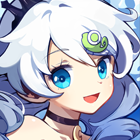
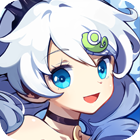
添加图标背景动画，修改图标圆角度等

diff --git a/miHaYo Launcher/MainWindow.xaml b/miHaYo Launcher/MainWindow.xaml
@@ -1,4 +1,4 @@
-<Window x:Class="miHaYo_Launcher.MainWindow"
+<Window x:Name="window" x:Class="miHaYo_Launcher.MainWindow"
         xmlns="http://schemas.microsoft.com/winfx/2006/xaml/presentation"
         xmlns:x="http://schemas.microsoft.com/winfx/2006/xaml"
         xmlns:d="http://schemas.microsoft.com/expression/blend/2008"
@@ -8,18 +8,18 @@
         WindowStartupLocation="CenterScreen"
         Title="miHaYo Launcher" Height="730" Width="1280">
     <Window.Resources>
-        <Storyboard x:Key="icon">
+        <Storyboard x:Key="Stratup">
             <ThicknessAnimationUsingKeyFrames Storyboard.TargetName="mi" Storyboard.TargetProperty="(FrameworkElement.Margin)">
                 <EasingThicknessKeyFrame KeyTime="00:00:00.8000000" Value="-114,-35,0,0"/>
-                <EasingThicknessKeyFrame KeyTime="00:00:01.9000000" Value="-114,-35,0,-633">
+                <EasingThicknessKeyFrame KeyTime="00:00:01.9000000" Value="-114,-35,0,-639">
                     <EasingThicknessKeyFrame.EasingFunction>
-                        <PowerEase EasingMode="EaseInOut" Power="2"/>
+                        <PowerEase EasingMode="EaseInOut"/>
                     </EasingThicknessKeyFrame.EasingFunction>
                 </EasingThicknessKeyFrame>
             </ThicknessAnimationUsingKeyFrames>
             <ThicknessAnimationUsingKeyFrames Storyboard.TargetName="ha" Storyboard.TargetProperty="(FrameworkElement.Margin)">
                 <EasingThicknessKeyFrame KeyTime="00:00:00.8000000" Value="0,-35,0,0"/>
-                <EasingThicknessKeyFrame KeyTime="00:00:01.9000000" Value="0,-35,0,-633">
+                <EasingThicknessKeyFrame KeyTime="00:00:01.9000000" Value="0,-35,0,-639">
                     <EasingThicknessKeyFrame.EasingFunction>
                         <PowerEase EasingMode="EaseInOut"/>
                     </EasingThicknessKeyFrame.EasingFunction>
@@ -27,7 +27,7 @@
             </ThicknessAnimationUsingKeyFrames>
             <ThicknessAnimationUsingKeyFrames Storyboard.TargetName="yo" Storyboard.TargetProperty="(FrameworkElement.Margin)">
                 <EasingThicknessKeyFrame KeyTime="00:00:00.8000000" Value="100,-35,0,0"/>
-                <EasingThicknessKeyFrame KeyTime="00:00:01.9000000" Value="100,-35,0,-633">
+                <EasingThicknessKeyFrame KeyTime="00:00:01.9000000" Value="100,-35,0,-639">
                     <EasingThicknessKeyFrame.EasingFunction>
                         <PowerEase EasingMode="EaseInOut"/>
                     </EasingThicknessKeyFrame.EasingFunction>
@@ -35,7 +35,7 @@
             </ThicknessAnimationUsingKeyFrames>
             <ThicknessAnimationUsingKeyFrames Storyboard.TargetName="tech" Storyboard.TargetProperty="(FrameworkElement.Margin)">
                 <EasingThicknessKeyFrame KeyTime="00:00:00.8000000" Value="-134,25,0,0"/>
-                <EasingThicknessKeyFrame KeyTime="00:00:01.9000000" Value="-134,25,0,-633">
+                <EasingThicknessKeyFrame KeyTime="00:00:01.9000000" Value="-134,25,0,-639">
                     <EasingThicknessKeyFrame.EasingFunction>
                         <PowerEase EasingMode="EaseInOut"/>
                     </EasingThicknessKeyFrame.EasingFunction>
@@ -43,7 +43,7 @@
             </ThicknessAnimationUsingKeyFrames>
             <ThicknessAnimationUsingKeyFrames Storyboard.TargetName="otakus" Storyboard.TargetProperty="(FrameworkElement.Margin)">
                 <EasingThicknessKeyFrame KeyTime="00:00:00.8000000" Value="-65,25,0,0"/>
-                <EasingThicknessKeyFrame KeyTime="00:00:01.9000000" Value="-65,25,0,-633">
+                <EasingThicknessKeyFrame KeyTime="00:00:01.9000000" Value="-65,25,0,-639">
                     <EasingThicknessKeyFrame.EasingFunction>
                         <PowerEase EasingMode="EaseInOut"/>
                     </EasingThicknessKeyFrame.EasingFunction>
@@ -51,7 +51,7 @@
             </ThicknessAnimationUsingKeyFrames>
             <ThicknessAnimationUsingKeyFrames Storyboard.TargetName="save" Storyboard.TargetProperty="(FrameworkElement.Margin)">
                 <EasingThicknessKeyFrame KeyTime="00:00:00.8000000" Value="2,25,0,0"/>
-                <EasingThicknessKeyFrame KeyTime="00:00:01.9000000" Value="2,25,0,-633">
+                <EasingThicknessKeyFrame KeyTime="00:00:01.9000000" Value="2,25,0,-639">
                     <EasingThicknessKeyFrame.EasingFunction>
                         <PowerEase EasingMode="EaseInOut"/>
                     </EasingThicknessKeyFrame.EasingFunction>
@@ -59,7 +59,7 @@
             </ThicknessAnimationUsingKeyFrames>
             <ThicknessAnimationUsingKeyFrames Storyboard.TargetName="the" Storyboard.TargetProperty="(FrameworkElement.Margin)">
                 <EasingThicknessKeyFrame KeyTime="00:00:00.8000000" Value="47,25,0,0"/>
-                <EasingThicknessKeyFrame KeyTime="00:00:01.9000000" Value="47,25,0,-633">
+                <EasingThicknessKeyFrame KeyTime="00:00:01.9000000" Value="47,25,0,-639">
                     <EasingThicknessKeyFrame.EasingFunction>
                         <PowerEase EasingMode="EaseInOut"/>
                     </EasingThicknessKeyFrame.EasingFunction>
@@ -67,14 +67,13 @@
             </ThicknessAnimationUsingKeyFrames>
             <ThicknessAnimationUsingKeyFrames Storyboard.TargetName="world" Storyboard.TargetProperty="(FrameworkElement.Margin)">
                 <EasingThicknessKeyFrame KeyTime="00:00:00.8000000" Value="105,25,0,0"/>
-                <EasingThicknessKeyFrame KeyTime="00:00:01.9000000" Value="105,25,0,-633">
+                <EasingThicknessKeyFrame KeyTime="00:00:01.9000000" Value="105,25,0,-639">
                     <EasingThicknessKeyFrame.EasingFunction>
                         <PowerEase EasingMode="EaseInOut"/>
                     </EasingThicknessKeyFrame.EasingFunction>
                 </EasingThicknessKeyFrame>
             </ThicknessAnimationUsingKeyFrames>
             <ThicknessAnimationUsingKeyFrames Storyboard.TargetName="jq0" Storyboard.TargetProperty="(FrameworkElement.Margin)">
-                <EasingThicknessKeyFrame KeyTime="00:00:00" Value="370,0,830,0"/>
                 <EasingThicknessKeyFrame KeyTime="00:00:01.2000000" Value="370,0,830,0"/>
                 <EasingThicknessKeyFrame KeyTime="00:00:02.1000000" Value="370,616,830,0">
                     <EasingThicknessKeyFrame.EasingFunction>
@@ -83,17 +82,14 @@
                 </EasingThicknessKeyFrame>
             </ThicknessAnimationUsingKeyFrames>
             <DoubleAnimationUsingKeyFrames Storyboard.TargetName="jq0" Storyboard.TargetProperty="(UIElement.Opacity)">
-                <EasingDoubleKeyFrame KeyTime="00:00:00" Value="0"/>
                 <EasingDoubleKeyFrame KeyTime="00:00:01.2000000" Value="0"/>
                 <EasingDoubleKeyFrame KeyTime="00:00:02.1000000" Value="1"/>
             </DoubleAnimationUsingKeyFrames>
             <DoubleAnimationUsingKeyFrames Storyboard.TargetName="sr" Storyboard.TargetProperty="(UIElement.Opacity)">
-                <EasingDoubleKeyFrame KeyTime="00:00:00" Value="0"/>
                 <EasingDoubleKeyFrame KeyTime="00:00:01.2000000" Value="0"/>
                 <EasingDoubleKeyFrame KeyTime="00:00:02.1000000" Value="1"/>
             </DoubleAnimationUsingKeyFrames>
             <ThicknessAnimationUsingKeyFrames Storyboard.TargetName="sr" Storyboard.TargetProperty="(FrameworkElement.Margin)">
-                <EasingThicknessKeyFrame KeyTime="00:00:00" Value="829,0,371,0"/>
                 <EasingThicknessKeyFrame KeyTime="00:00:01.2000000" Value="829,0,371,0"/>
                 <EasingThicknessKeyFrame KeyTime="00:00:02.1000000" Value="829,616,371,0">
                     <EasingThicknessKeyFrame.EasingFunction>
@@ -102,12 +98,10 @@
                 </EasingThicknessKeyFrame>
             </ThicknessAnimationUsingKeyFrames>
             <DoubleAnimationUsingKeyFrames Storyboard.TargetName="b3" Storyboard.TargetProperty="(UIElement.Opacity)">
-                <EasingDoubleKeyFrame KeyTime="00:00:00" Value="0"/>
                 <EasingDoubleKeyFrame KeyTime="00:00:01.4000000" Value="0"/>
                 <EasingDoubleKeyFrame KeyTime="00:00:02.2000000" Value="1"/>
             </DoubleAnimationUsingKeyFrames>
             <ThicknessAnimationUsingKeyFrames Storyboard.TargetName="b3" Storyboard.TargetProperty="(FrameworkElement.Margin)">
-                <EasingThicknessKeyFrame KeyTime="00:00:00" Value="220,0,980,0"/>
                 <EasingThicknessKeyFrame KeyTime="00:00:01.4000000" Value="220,0,980,0"/>
                 <EasingThicknessKeyFrame KeyTime="00:00:02.2000000" Value="220,616,980,0">
                     <EasingThicknessKeyFrame.EasingFunction>
@@ -116,12 +110,10 @@
                 </EasingThicknessKeyFrame>
             </ThicknessAnimationUsingKeyFrames>
             <DoubleAnimationUsingKeyFrames Storyboard.TargetName="wd" Storyboard.TargetProperty="(UIElement.Opacity)">
-                <EasingDoubleKeyFrame KeyTime="00:00:00" Value="0"/>
                 <EasingDoubleKeyFrame KeyTime="00:00:01.4000000" Value="0"/>
                 <EasingDoubleKeyFrame KeyTime="00:00:02.2000000" Value="1"/>
             </DoubleAnimationUsingKeyFrames>
             <ThicknessAnimationUsingKeyFrames Storyboard.TargetName="wd" Storyboard.TargetProperty="(FrameworkElement.Margin)">
-                <EasingThicknessKeyFrame KeyTime="00:00:00" Value="979,0,222,0"/>
                 <EasingThicknessKeyFrame KeyTime="00:00:01.4000000" Value="979,0,222,0"/>
                 <EasingThicknessKeyFrame KeyTime="00:00:02.2000000" Value="979,616,222,0">
                     <EasingThicknessKeyFrame.EasingFunction>
@@ -130,12 +122,10 @@
                 </EasingThicknessKeyFrame>
             </ThicknessAnimationUsingKeyFrames>
             <DoubleAnimationUsingKeyFrames Storyboard.TargetName="b2" Storyboard.TargetProperty="(UIElement.Opacity)">
-                <EasingDoubleKeyFrame KeyTime="00:00:00" Value="0"/>
                 <EasingDoubleKeyFrame KeyTime="00:00:01.6000000" Value="0"/>
                 <EasingDoubleKeyFrame KeyTime="00:00:02.3000000" Value="1"/>
             </DoubleAnimationUsingKeyFrames>
             <ThicknessAnimationUsingKeyFrames Storyboard.TargetName="b2" Storyboard.TargetProperty="(FrameworkElement.Margin)">
-                <EasingThicknessKeyFrame KeyTime="00:00:00" Value="70,0,1130,0"/>
                 <EasingThicknessKeyFrame KeyTime="00:00:01.6000000" Value="70,0,1130,0"/>
                 <EasingThicknessKeyFrame KeyTime="00:00:02.3000000" Value="70,616,1130,0">
                     <EasingThicknessKeyFrame.EasingFunction>
@@ -144,12 +134,10 @@
                 </EasingThicknessKeyFrame>
             </ThicknessAnimationUsingKeyFrames>
             <DoubleAnimationUsingKeyFrames Storyboard.TargetName="ys" Storyboard.TargetProperty="(UIElement.Opacity)">
-                <EasingDoubleKeyFrame KeyTime="00:00:00" Value="0"/>
                 <EasingDoubleKeyFrame KeyTime="00:00:01.6000000" Value="0"/>
                 <EasingDoubleKeyFrame KeyTime="00:00:02.3000000" Value="1"/>
             </DoubleAnimationUsingKeyFrames>
             <ThicknessAnimationUsingKeyFrames Storyboard.TargetName="ys" Storyboard.TargetProperty="(FrameworkElement.Margin)">
-                <EasingThicknessKeyFrame KeyTime="00:00:00" Value="1130,0,70,0"/>
                 <EasingThicknessKeyFrame KeyTime="00:00:01.6000000" Value="1130,0,70,0"/>
                 <EasingThicknessKeyFrame KeyTime="00:00:02.3000000" Value="1130,616,70,0">
                     <EasingThicknessKeyFrame.EasingFunction>
@@ -157,9 +145,32 @@
                     </EasingThicknessKeyFrame.EasingFunction>
                 </EasingThicknessKeyFrame>
             </ThicknessAnimationUsingKeyFrames>
+            <ThicknessAnimationUsingKeyFrames Storyboard.TargetName="rectangle" Storyboard.TargetProperty="(FrameworkElement.Margin)">
+                <EasingThicknessKeyFrame KeyTime="00:00:01.7000000" Value="30,4,30,2"/>
+                <EasingThicknessKeyFrame KeyTime="00:00:02.5000000" Value="30,616,30,2">
+                    <EasingThicknessKeyFrame.EasingFunction>
+                        <PowerEase EasingMode="EaseOut" Power="4"/>
+                    </EasingThicknessKeyFrame.EasingFunction>
+                </EasingThicknessKeyFrame>
+            </ThicknessAnimationUsingKeyFrames>
+            <DoubleAnimationUsingKeyFrames Storyboard.TargetName="rectangle" Storyboard.TargetProperty="(UIElement.Opacity)">
+                <EasingDoubleKeyFrame KeyTime="00:00:01.5000000" Value="0"/>
+                <EasingDoubleKeyFrame KeyTime="00:00:02.5000000" Value="0.35"/>
+            </DoubleAnimationUsingKeyFrames>
         </Storyboard>
     </Window.Resources>
     <Grid>
+        <Rectangle x:Name="rectangle" Opacity="0" Fill="Black" RenderTransformOrigin="0.5,0.5" Margin="30,616,30,2" RadiusY="23" RadiusX="23">
+            <Rectangle.RenderTransform>
+                <TransformGroup>
+                    <ScaleTransform/>
+                    <SkewTransform/>
+                    <RotateTransform/>
+                    <TranslateTransform/>
+                </TransformGroup>
+            </Rectangle.RenderTransform>
+        </Rectangle>
+
         <Image x:Name="mi" Source="{StaticResource BSI_mi}" Height="60" Width="60" Margin="-114,-35,0,0"/>
         <Image x:Name="ha" Source="{StaticResource BSI_ha}" Height="60" Width="60" Margin="0,-35,0,0"/>
         <Image x:Name="yo" Source="{StaticResource BSI_yo}" Height="60" Width="60" Margin="100,-35,0,0"/>
@@ -169,11 +180,11 @@
         <Image x:Name="the" Source="{StaticResource BSI_the}" Height="30" Width="100" Margin="47,25,0,0"/>
         <Image x:Name="world" Source="{StaticResource BSI_world}" Height="30" Width="100" Margin="105,25,0,0"/>
 
-        <Image x:Name="b2" Source="{StaticResource GI_b2}" Margin="70,616,1130,0"/>
-        <Image x:Name="b3" Source="{StaticResource GI_b3}" Margin="220,616,980,0"/>
-        <Image x:Name="jq0" Source="{StaticResource GI_jq0}" Margin="370,616,830,0"/>
-        <Image x:Name="sr" Source="{StaticResource GI_b4}" Margin="829,616,371,0"/>
-        <Image x:Name="wd" Source="{StaticResource GI_wd}" Margin="979,616,222,0"/>
-        <Image x:Name="ys" Source="{StaticResource GI_ys}" Margin="1130,616,70,0"/>
+        <Image x:Name="b2" Source="{StaticResource GI_b2}" Margin="70,616,1130,0" Opacity="0"/>
+        <Image x:Name="b3" Source="{StaticResource GI_b3}" Margin="220,616,980,0" Opacity="0"/>
+        <Image x:Name="jq0" Source="{StaticResource GI_jq0}" Margin="370,616,830,0" Opacity="0"/>
+        <Image x:Name="sr" Source="{StaticResource GI_b4}" Margin="829,616,371,0" Opacity="0"/>
+        <Image x:Name="wd" Source="{StaticResource GI_wd}" Margin="979,616,222,0" Opacity="0"/>
+        <Image x:Name="ys" Source="{StaticResource GI_ys}" Margin="1130,616,70,0" Opacity="0"/>
     </Grid>
 </Window>

diff --git a/miHaYo Launcher/MainWindow.xaml.cs b/miHaYo Launcher/MainWindow.xaml.cs
@@ -25,7 +25,7 @@ namespace miHaYo_Launcher
         {
             this.ResizeMode = ResizeMode.CanMinimize;
             InitializeComponent();
-            var iconsb = (Storyboard)this.FindResource("icon");
+            var iconsb = (Storyboard)this.FindResource("Stratup");
             iconsb.Begin();
         }
     }
